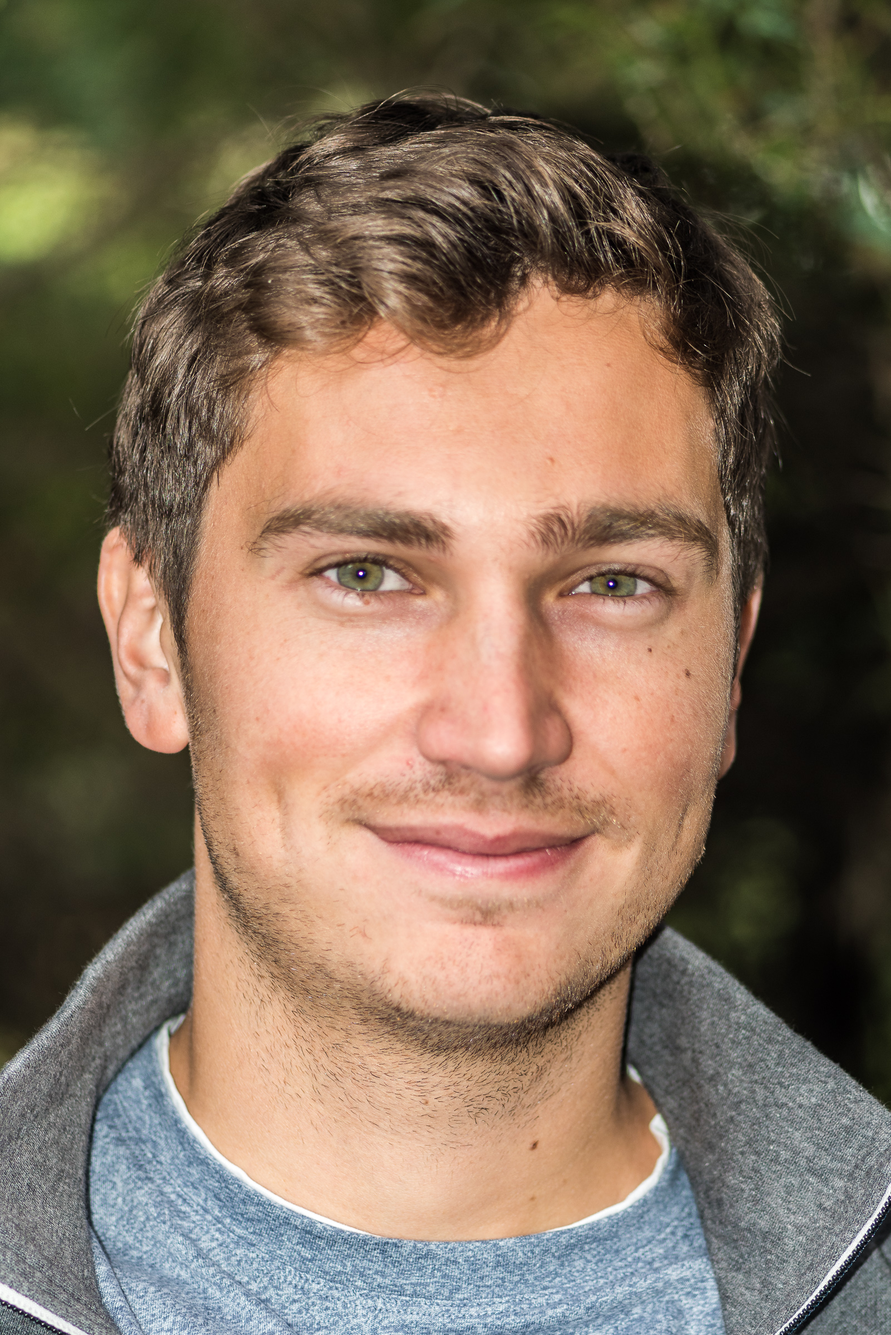
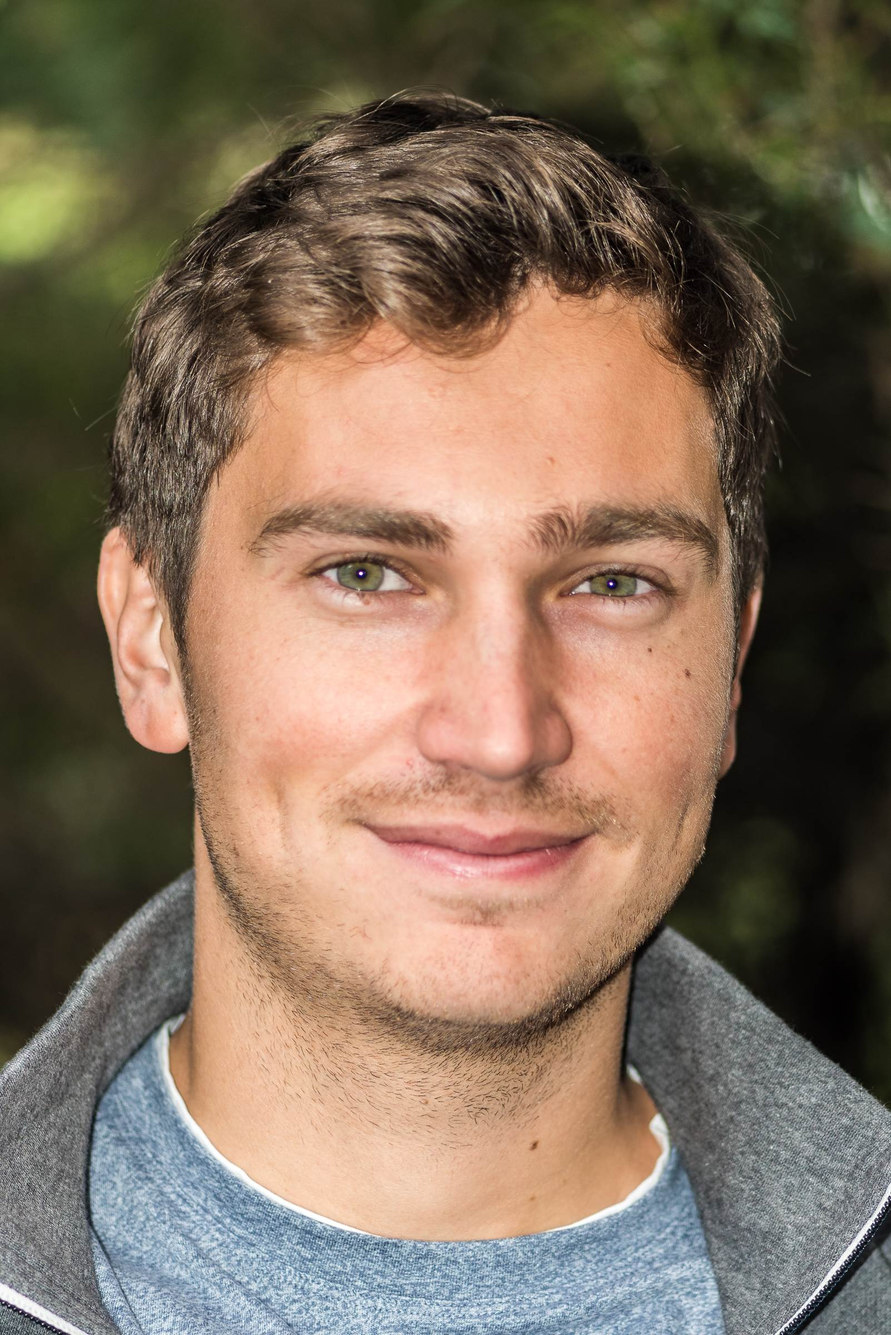
Expended About page, change templete and picture size. Added videos to project page.

diff --git a/docs/index.html b/docs/index.html
@@ -110,7 +110,7 @@ ul.task-list li input[type="checkbox"] {
  <span class="menu-text"></span></a>
   </li>  
   <li class="nav-item compact">
-    <a class="nav-link" href="mailto:MAIL:mbracic192@gmail.com" rel="" target=""><i class="bi bi-envelope" role="img" aria-label="email">
+    <a class="nav-link" href="mailto:mbracic192@gmail.com" rel="" target=""><i class="bi bi-envelope" role="img" aria-label="email">
 </i> 
  <span class="menu-text"></span></a>
   </li>  
@@ -127,23 +127,18 @@ ul.task-list li input[type="checkbox"] {
 <!-- margin-sidebar -->
     
 <!-- main -->
-<main class="content" id="quarto-document-content">
-
-
-
-<div class="quarto-about-jolla">
-  <img src="img/MarkoBracic.jpg" class="about-image
-  rounded " style="width: 15em;">
- <header id="title-block-header" class="quarto-title-block default">
+<div class="quarto-about-trestles">
+  <div class="about-entity">
+    <img src="img/MarkoBracic.jpg" class="about-image
+  rounded " style="width: 12em;">
+<header id="title-block-header" class="quarto-title-block default">
 <div class="quarto-title">
 <h1 class="title">Dr.&nbsp;Marko Bračić<br> <small style="font-size: 50%;">Behavioural biologist</small></h1>
 </div>
 <div class="quarto-title-meta">
   </div>
-</header><div id="about-block">
-</div> 
-  <hr class="about-sep">
-   <div class="about-links">
+</header>
+    <div class="about-links">
   <a href="https://twitter.com/MarkoBracic" class="about-link" rel="" target="">
     <i class="bi bi-twitter"></i>
      <span class="about-link-text">Twitter</span>
@@ -152,24 +147,34 @@ ul.task-list li input[type="checkbox"] {
     <i class="bi bi-linkedin"></i>
      <span class="about-link-text">LinkedIn</span>
   </a>
-  <a href="mailto:MAIL:mbracic192@gmail.com" class="about-link" rel="" target="">
+  <a href="mailto:mbracic192@gmail.com" class="about-link" rel="" target="">
     <i class="bi bi-envelope"></i>
      <span class="about-link-text">Email</span>
   </a>
+  <a href="https://orcid.org/0000-0001-6528-3572" class="about-link" rel="" target="">
+     <span class="about-link-text">ORCiD: 0000-0001-6528-3572</span>
+  </a>
 </div>
-</div>
-
+  </div>
+  <div class="about-contents"><main class="content" id="quarto-document-content">
 <section id="welcome-to-my-website" class="level1">
 <h1>Welcome to my website!</h1>
-<p>I am a behavioural biologist passionate about understanding how animals make decisions and exploring the ecological consequences of their behaviour. My work is interdisciplinary, incorporating cognition, ecology and evolution with empirical and theoretical approaches to uncover miseries of animal behaviour. I am strongly committed to open science and support the Society for Open, Reliable, and Transparent Ecology and Evolutionary Biology (SORTEE).</p>
-<p>The nature fascinates me so you’ll often find me with my nose to the ground observing ants or gazing into trees in search of a bird.</p>
-<p>I love to engage in knowledge and experience exchange, not only inside of academia but also with the public. So do not hesitate to reach out! Check out my projects and publication and <a href="mailto:mbracic192@gmail.com%22">contact me</a> if you have any questions or would like to discuss ideas.</p>
-
+<p>I am a behavioural biologist passionate about understanding how animals make decisions and exploring the ecological consequences of their behaviour. My work is interdisciplinary, incorporating cognition, ecology and evolution with empirical and theoretical approaches to uncover the miseries of animal behaviour.</p>
+<p>Recently, I finished my PhD at <a href="https://www.uni-muenster.de/Biologie.NeuroVer/Verhaltensbiologie/en/Team/index.html">University of Münster, Department of Behavioural Biology at</a> as a part of collaborative research center for a <a href="https://www.uni-bielefeld.de/fakultaeten/biologie/forschung/verbuende/sfb_nc3/about/index.xml">novel synthesis of individualisation (NC3)</a> and a student in <a href="https://www.uni-muenster.de/Evolution/mgse/people/markobracic.html">Münster Graduate School of Evolution (MGSE)</a>.</p>
+<p>Nature fascinates me so you’ll often find me with my nose to the ground observing ants or gazing into trees in search of a bird.</p>
+<p>I love to engage in knowledge and experience exchange, not only inside academia but also with the public. So do not hesitate to reach out! Check out my <a href="projects/">projects</a> and <a href="publications/">publications</a> and <script type="text/javascript">
+<!--
+h='&#x67;&#x6d;&#x61;&#x69;&#108;&#46;&#x63;&#x6f;&#x6d;';a='&#64;';n='&#x6d;&#98;&#114;&#x61;&#x63;&#x69;&#x63;&#x31;&#x39;&#50;';e=n+a+h;
+document.write('<a h'+'ref'+'="ma'+'ilto'+':'+e+'" clas'+'s="em' + 'ail">'+'&#x63;&#x6f;&#110;&#116;&#x61;&#x63;&#116;&#32;&#x6d;&#x65;'+'<\/'+'a'+'>');
+// -->
+</script><noscript>contact me (mbracic192 at gmail dot com)</noscript> if you have any questions or would like to discuss ideas.</p>
+<p>I firmly believe in open and transparent science, so all my publications are open-access and contain reproducible data and analysis code. To further support open science, I am a member of the Society for Open, Reliable, and Transparent Ecology and Evolutionary Biology <a href="https://www.sortee.org/">SORTEE</a>, and I encourage you to consider joining this community.</p>
 
 
 </section>
-
-</main> <!-- /main -->
+</main></div>
+</div>
+ <!-- /main -->
 <script id="quarto-html-after-body" type="application/javascript">
 window.document.addEventListener("DOMContentLoaded", function (event) {
   const toggleBodyColorMode = (bsSheetEl) => {
@@ -403,7 +408,9 @@ window.document.addEventListener("DOMContentLoaded", function (event) {
     <div class="nav-footer-center">
       &nbsp;
     </div>
-    <div class="nav-footer-right"><span class="faux-block"><a href="https://github.com/marvinschmitt/quarto-website-template/">View source on GitHub</a></span></div>
+    <div class="nav-footer-right">
+      &nbsp;
+    </div>
   </div>
 </footer>
 

diff --git a/docs/projects/index.html b/docs/projects/index.html
@@ -111,7 +111,7 @@ ul.task-list li input[type="checkbox"] {
  <span class="menu-text"></span></a>
   </li>  
   <li class="nav-item compact">
-    <a class="nav-link" href="mailto:MAIL:mbracic192@gmail.com" rel="" target=""><i class="bi bi-envelope" role="img" aria-label="email">
+    <a class="nav-link" href="mailto:mbracic192@gmail.com" rel="" target=""><i class="bi bi-envelope" role="img" aria-label="email">
 </i> 
  <span class="menu-text"></span></a>
   </li>  
@@ -152,12 +152,16 @@ ul.task-list li input[type="checkbox"] {
 <p><img src="../img/stability_causes.png" style="height: 100%; width: 100%; object-fit: contain" onclick="window.open('https://academic.oup.com/beheco/article/33/4/775/6601379', 'blank');"></p>
 <p><a href="https://academic.oup.com/beheco/article/33/4/775/6601379" target="_blank">Paper</a> | <a href="https://datadryad.org/stash/dataset/doi:10.5061/dryad.2bvq83bsd" target="_blank">Data and code</a><br></p>
 <p>We quantified individual differences in “optimism” of mice (cognitive judgement bias) and investigate the drivers of this variation. Repeatability analyses showed moderate consistency of individual differences, similar to other behaviours assessed in animal personality research. However, we did not find the evidence for influence of two selected environmental conditions and genotypes.</p>
+<div class="quarto-video ratio ratio-16x9"><iframe data-external="1" src="https://www.youtube.com/embed/CnvT-hRR-GY" title="" frameborder="0" allow="accelerometer; autoplay; clipboard-write; encrypted-media; gyroscope; picture-in-picture" allowfullscreen=""></iframe></div>
+<p><br><br></p>
 </section>
-<section id="ecological-consequences-of-individual-diffrences-in-animal-optimism" class="level2">
-<h2 class="anchored" data-anchor-id="ecological-consequences-of-individual-diffrences-in-animal-optimism">Ecological consequences of individual diffrences in animal “optimism”</h2>
+<section id="ecological-consequences-of-individual-differences-in-animal-optimism" class="level2">
+<h2 class="anchored" data-anchor-id="ecological-consequences-of-individual-differences-in-animal-optimism">Ecological consequences of individual differences in animal “optimism”</h2>
 <p><img src="../img/consequences.png" style="height: 100%; width: 100%; object-fit: contain" onclick="window.open('https://www.researchsquare.com/article/rs-3071773/v1', 'blank');"></p>
 <p><a href="https://www.researchsquare.com/article/rs-3071773/v1" target="_blank">Preprint</a> | <a href="https://osf.io/z6nm8/" target="_blank">Data and code</a><br></p>
 <p>We explored potential ecological consequences of animals being more optimistic or pessimistic (cognitive judgement bias). Considering our main aim, we did not find evidence that optimistic and pessimistic mice make different foraging decisions under predation risk. However, we successfully developed a new test to investigate individual differences in ecologically relevant risk-taking of mice.</p>
+<div class="quarto-video ratio ratio-16x9"><iframe data-external="1" src="https://www.youtube.com/embed/yKvue14Woxs" title="" frameborder="0" allow="accelerometer; autoplay; clipboard-write; encrypted-media; gyroscope; picture-in-picture" allowfullscreen=""></iframe></div>
+<p><br><br></p>
 </section>
 <section id="philosophical-perspective-of-animal-optimism" class="level2">
 <h2 class="anchored" data-anchor-id="philosophical-perspective-of-animal-optimism">Philosophical perspective of animal “optimism”</h2>
@@ -409,7 +413,9 @@ window.document.addEventListener("DOMContentLoaded", function (event) {
     <div class="nav-footer-center">
       &nbsp;
     </div>
-    <div class="nav-footer-right"><span class="faux-block"><a href="https://github.com/marvinschmitt/quarto-website-template/">View source on GitHub</a></span></div>
+    <div class="nav-footer-right">
+      &nbsp;
+    </div>
   </div>
 </footer>
 

diff --git a/docs/publications/list_Gscholar.html b/docs/publications/list_Gscholar.html
@@ -134,7 +134,7 @@ pre > code.sourceCode > span > a:first-child::before { text-decoration: underlin
  <span class="menu-text"></span></a>
   </li>  
   <li class="nav-item compact">
-    <a class="nav-link" href="mailto:MAIL:mbracic192@gmail.com" rel="" target=""><i class="bi bi-envelope" role="img" aria-label="email">
+    <a class="nav-link" href="mailto:mbracic192@gmail.com" rel="" target=""><i class="bi bi-envelope" role="img" aria-label="email">
 </i> 
  <span class="menu-text"></span></a>
   </li>  
@@ -477,7 +477,9 @@ window.document.addEventListener("DOMContentLoaded", function (event) {
     <div class="nav-footer-center">
       &nbsp;
     </div>
-    <div class="nav-footer-right"><span class="faux-block"><a href="https://github.com/marvinschmitt/quarto-website-template/">View source on GitHub</a></span></div>
+    <div class="nav-footer-right">
+      &nbsp;
+    </div>
   </div>
 </footer>
 

diff --git a/docs/404.html b/docs/404.html
@@ -111,7 +111,7 @@ ul.task-list li input[type="checkbox"] {
  <span class="menu-text"></span></a>
   </li>  
   <li class="nav-item compact">
-    <a class="nav-link" href="mailto:MAIL:mbracic192@gmail.com" rel="" target=""><i class="bi bi-envelope" role="img" aria-label="email">
+    <a class="nav-link" href="mailto:mbracic192@gmail.com" rel="" target=""><i class="bi bi-envelope" role="img" aria-label="email">
 </i> 
  <span class="menu-text"></span></a>
   </li>  
@@ -392,7 +392,9 @@ window.document.addEventListener("DOMContentLoaded", function (event) {
     <div class="nav-footer-center">
       &nbsp;
     </div>
-    <div class="nav-footer-right"><span class="faux-block"><a href="https://github.com/marvinschmitt/quarto-website-template/">View source on GitHub</a></span></div>
+    <div class="nav-footer-right">
+      &nbsp;
+    </div>
   </div>
 </footer>
 

diff --git a/docs/cv/index.html b/docs/cv/index.html
@@ -100,7 +100,7 @@ ul.task-list li input[type="checkbox"] {
  <span class="menu-text"></span></a>
   </li>  
   <li class="nav-item compact">
-    <a class="nav-link" href="mailto:MAIL:mbracic192@gmail.com" rel="" target=""><i class="bi bi-envelope" role="img" aria-label="email">
+    <a class="nav-link" href="mailto:mbracic192@gmail.com" rel="" target=""><i class="bi bi-envelope" role="img" aria-label="email">
 </i> 
  <span class="menu-text"></span></a>
   </li>  
@@ -401,7 +401,9 @@ window.document.addEventListener("DOMContentLoaded", function (event) {
     <div class="nav-footer-center">
       &nbsp;
     </div>
-    <div class="nav-footer-right"><span class="faux-block"><a href="https://github.com/marvinschmitt/quarto-website-template/">View source on GitHub</a></span></div>
+    <div class="nav-footer-right">
+      &nbsp;
+    </div>
   </div>
 </footer>
 

diff --git a/docs/publications/index.html b/docs/publications/index.html
@@ -111,7 +111,7 @@ ul.task-list li input[type="checkbox"] {
  <span class="menu-text"></span></a>
   </li>  
   <li class="nav-item compact">
-    <a class="nav-link" href="mailto:MAIL:mbracic192@gmail.com" rel="" target=""><i class="bi bi-envelope" role="img" aria-label="email">
+    <a class="nav-link" href="mailto:mbracic192@gmail.com" rel="" target=""><i class="bi bi-envelope" role="img" aria-label="email">
 </i> 
  <span class="menu-text"></span></a>
   </li>  
@@ -459,7 +459,9 @@ window.document.addEventListener("DOMContentLoaded", function (event) {
     <div class="nav-footer-center">
       &nbsp;
     </div>
-    <div class="nav-footer-right"><span class="faux-block"><a href="https://github.com/marvinschmitt/quarto-website-template/">View source on GitHub</a></span></div>
+    <div class="nav-footer-right">
+      &nbsp;
+    </div>
   </div>
 </footer>
 
